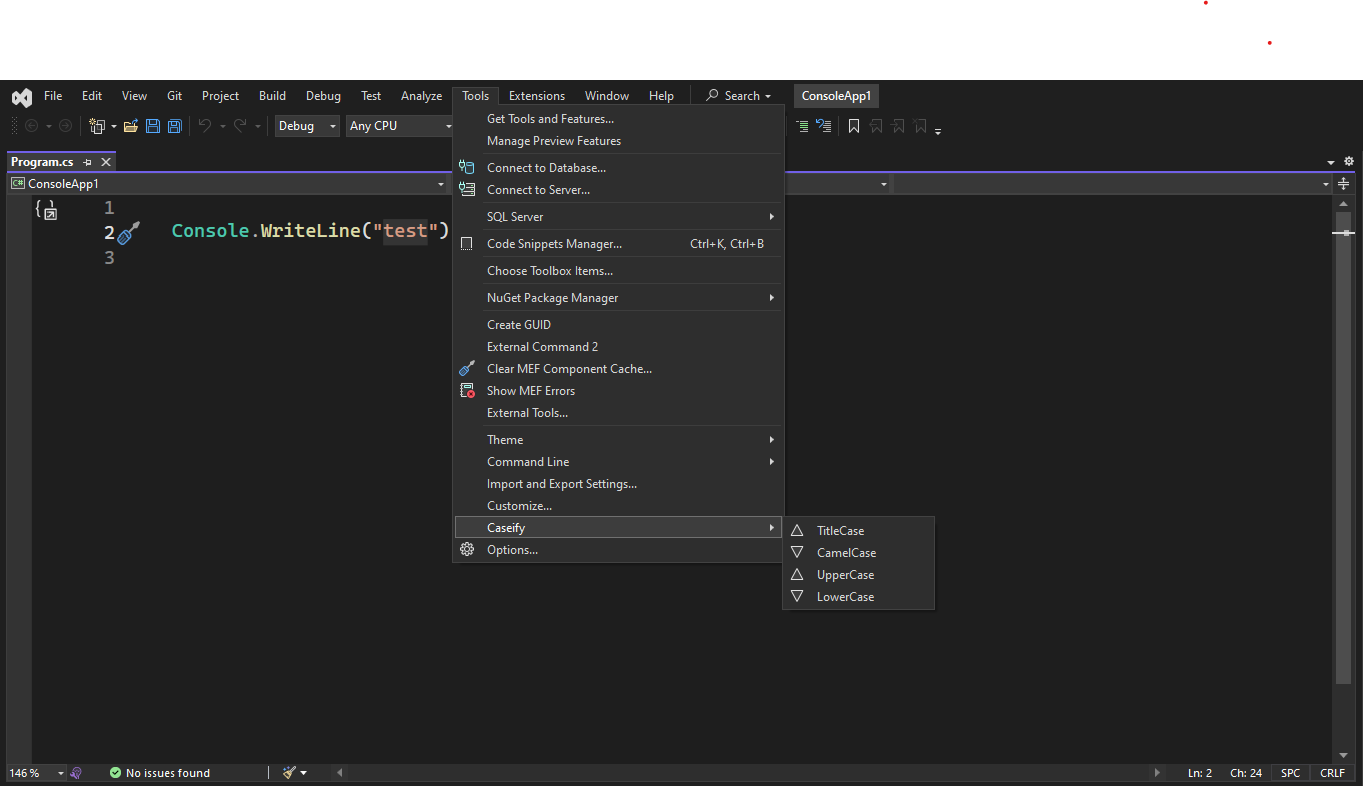
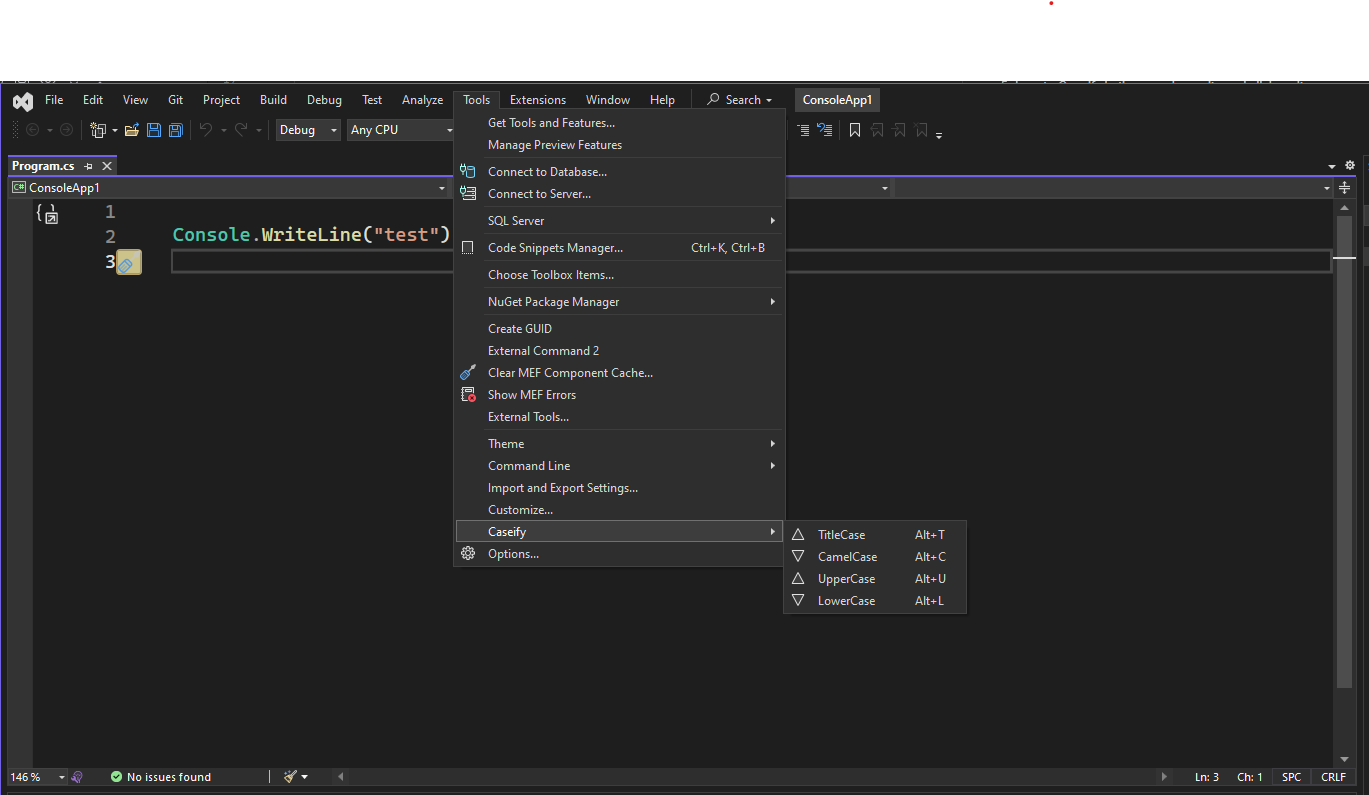
feat(newMain): Added HotKey commands for each commands

Changed region(s): [[0.0, 0.0916, 0.6779, 0.7328], [0.0, 0.1832, 1.0, 1.0], [0.5547, 0.6412, 0.7087, 0.7634]]

diff --git a/README.md b/README.md
@@ -1,6 +1,6 @@
 # Caseify
 
-Caseify is a powerful Visual Studio extension designed to streamline and enhance your coding experience by offering a seamless way to transform or modify the casing of code elements. This tool empowers developers to effortlessly adjust the case of variables, functions, and other code components, promoting consistency and readability in their projects. With Caseify, coding becomes more efficient as it automates the process of casing modifications, allowing users to focus on the logic and structure of their code rather than manual formatting. Boost your productivity and maintain a clean, uniform coding style with the intuitive features of Caseify within the Visual Studio environment.
+Caseify, a robust Visual Studio extension, simplifies and improves coding by seamlessly transforming code element casing. It empowers developers to effortlessly modify variable, function, and code component casing, ensuring consistency and readability. With automation, Caseify enhances coding efficiency, letting users concentrate on logic and structure rather than manual formatting, thereby boosting productivity and maintaining a uniform coding style in Visual Studio.
 ## Table of Contents
 
 - [Features](#features)
@@ -12,10 +12,11 @@ Caseify is a powerful Visual Studio extension designed to streamline and enhance
 
 ## Features
 
-- TitleCase : [ hello --> Hello ]
-- CamelCase : [ HelloWorld --> helloWorld ]
-- UpperCase : [ HelloWorld --> HELLOWORLD ]
-- LowerCase : [ HelloWorld --> helloworld ]
+- TitleCase : ``` ALT + T ``` :  [ hello --> Hello ]
+- CamelCase : ``` ALT + C ``` :  [ HelloWorld --> helloWorld ]
+- UpperCase : ``` ALT + U ``` :   [ HelloWorld --> HELLOWORLD ]
+- LowerCase : ``` ALT + L ``` :   [ HelloWorld --> helloworld ]
+
 
 ## Installation
 1) Open Visual Studio.
@@ -35,10 +36,8 @@ Caseify is a powerful Visual Studio extension designed to streamline and enhance
 Once the installation is complete, restart Visual Studio to activate Caseify.
 Now, Caseify is ready to enhance your coding experience by simplifying and automating casing modifications in your projects. Enjoy the improved consistency and readability brought to you by Caseify within your Visual Studio environment.
 
-## usage
+## Usage
 <img src="./Resources/Usage.png"/>
 
 ## Contributing
 Thank you for considering contributing to Caseify! We welcome contributions from the community to help make this Visual Studio extension even more robust and user-friendly.
-
-Before you start contributing, please take a moment to read our Code of Conduct to ensure a positive and inclusive environment for everyone.
